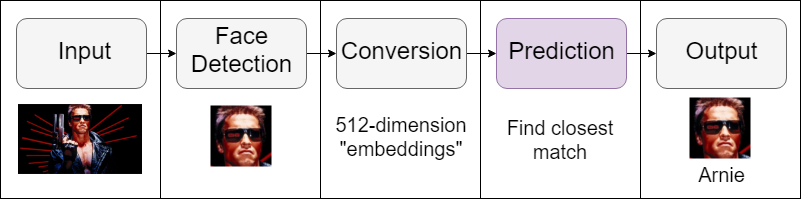
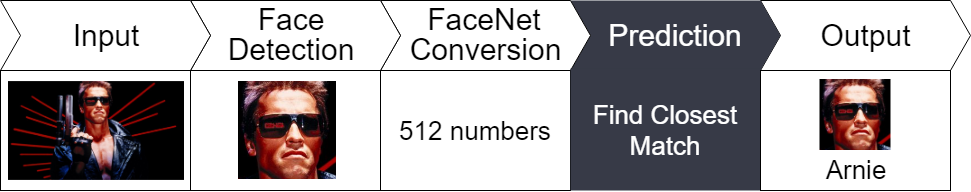
Update images

diff --git a/src/components/slides/03 - pipeline.jsx b/src/components/slides/03 - pipeline.jsx
@@ -24,24 +24,23 @@ export default class PipelineSlides extends Component {
                 </SimpleSlide>
                 <SimpleSlide title="Pipeline Overview">
                     <div className="centre-image" style={{ height: '400px', width: '100%' }}>
-                        <img src="./images/pipeline.png" />
+                        <img src="./images/pipeline.png" style={{ width: "800px" }} />
                     </div>
                 </SimpleSlide>
                 <SimpleSlide>
                     <div style={{ width: '100%' }}>
                         <div className="centre-image" style={{ marginBottom: '10px' }}>
-                            <img src="./images/1 - input.png" />
+                            <img src="./images/1 - input.png" style={{ width: "800px" }} />
                         </div>
                         <ul>
                             <li>Images, video or live camera</li>
-                            <li>Can be variable in resolution and quality</li>
                         </ul>
                     </div>
                 </SimpleSlide>
                 <SimpleSlide>
                     <div style={{ width: '100%' }}>
                         <div className="centre-image" style={{ marginBottom: '10px' }}>
-                            <img src="./images/2 - face detection.png" />
+                            <img src="./images/2 - face detection.png" style={{ width: "800px" }} />
                         </div>
                         <div style={{ display: 'flex' }}>
                             <img src="./images/mtcnn.png" style={{ width: '400px', height: '320px' }} />
@@ -58,7 +57,7 @@ export default class PipelineSlides extends Component {
                 <SimpleSlide>
                     <div style={{ width: '100%' }}>
                         <div className="centre-image" style={{ marginBottom: '10px' }}>
-                            <img src="./images/3 - conversion.png" />
+                            <img src="./images/3 - conversion.png" style={{ width: "800px" }} />
                         </div>
                         <ul>
                             <li>FaceNet neural network</li>
@@ -72,7 +71,7 @@ export default class PipelineSlides extends Component {
                 <SimpleSlide>
                     <div style={{ width: '100%' }}>
                         <div className="centre-image" style={{ marginBottom: '10px' }}>
-                            <img src="./images/4 - prediction.png" />
+                            <img src="./images/4 - prediction.png" style={{ width: "800px" }} />
                         </div>
                         <div style={{ display: 'flex' }}>
                             <img src="./images/neighbours.png" style={{ width: '400px', height: '300px' }} />
@@ -88,7 +87,7 @@ export default class PipelineSlides extends Component {
                 <SimpleSlide>
                     <div style={{ width: '100%' }}>
                         <div className="centre-image" style={{ marginBottom: '10px' }}>
-                            <img src="./images/5 - output.png" />
+                            <img src="./images/5 - output.png" style={{ width: "800px" }} />
                         </div>
                         <ul>
                             <li>Putting a name to a face...</li>
